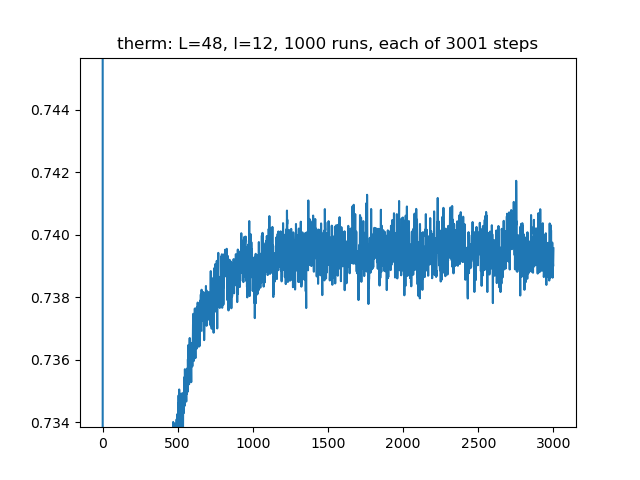
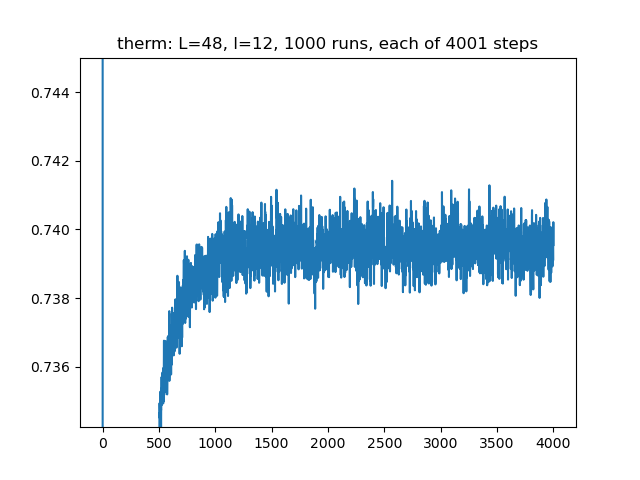
more therm files

diff --git a/code/hexflip.cpp b/code/hexflip.cpp
@@ -8,13 +8,13 @@
 
 const int L       = 48;     // MUST BE EVEN
       int l       = 0;     // l=L is fully packed
-      int l_skip  = 12;
+      int l_skip  = 6;
 const int width   = L;     // System width 
 const int height  = L/2;   // System height: let width/height =2
 const int m = 3;           // number of NONTRIVIAL colors
 int step  = 0;             // used for filenames
 int init_steps = 0;         // used to thermalize the system
-int prints = 3000;            // simulation time
+int prints = 4000;            // simulation time
 int steps_per_print = 1;    // total steps = prints * steps_per_print
 int run = 0; 
 int runs = 1000;
